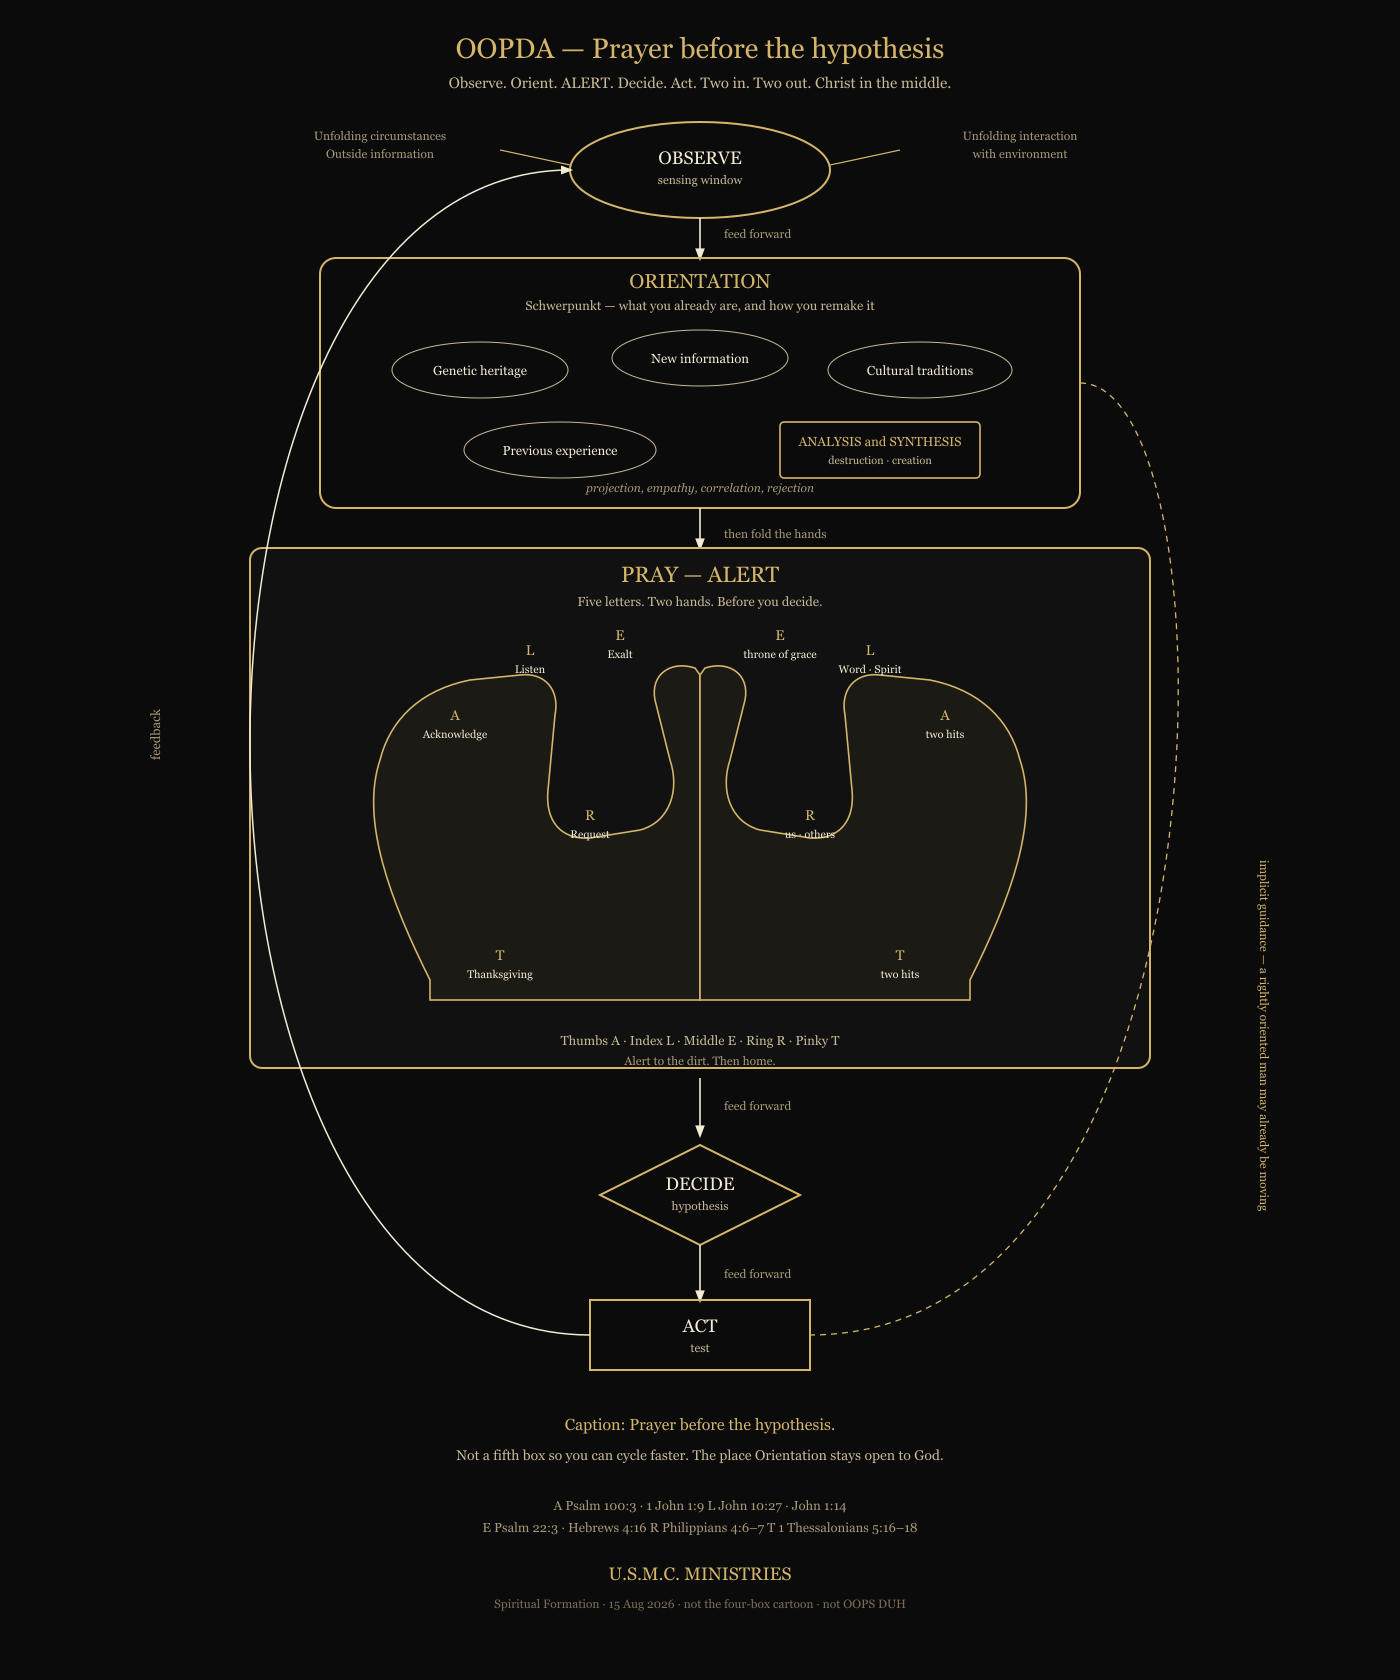
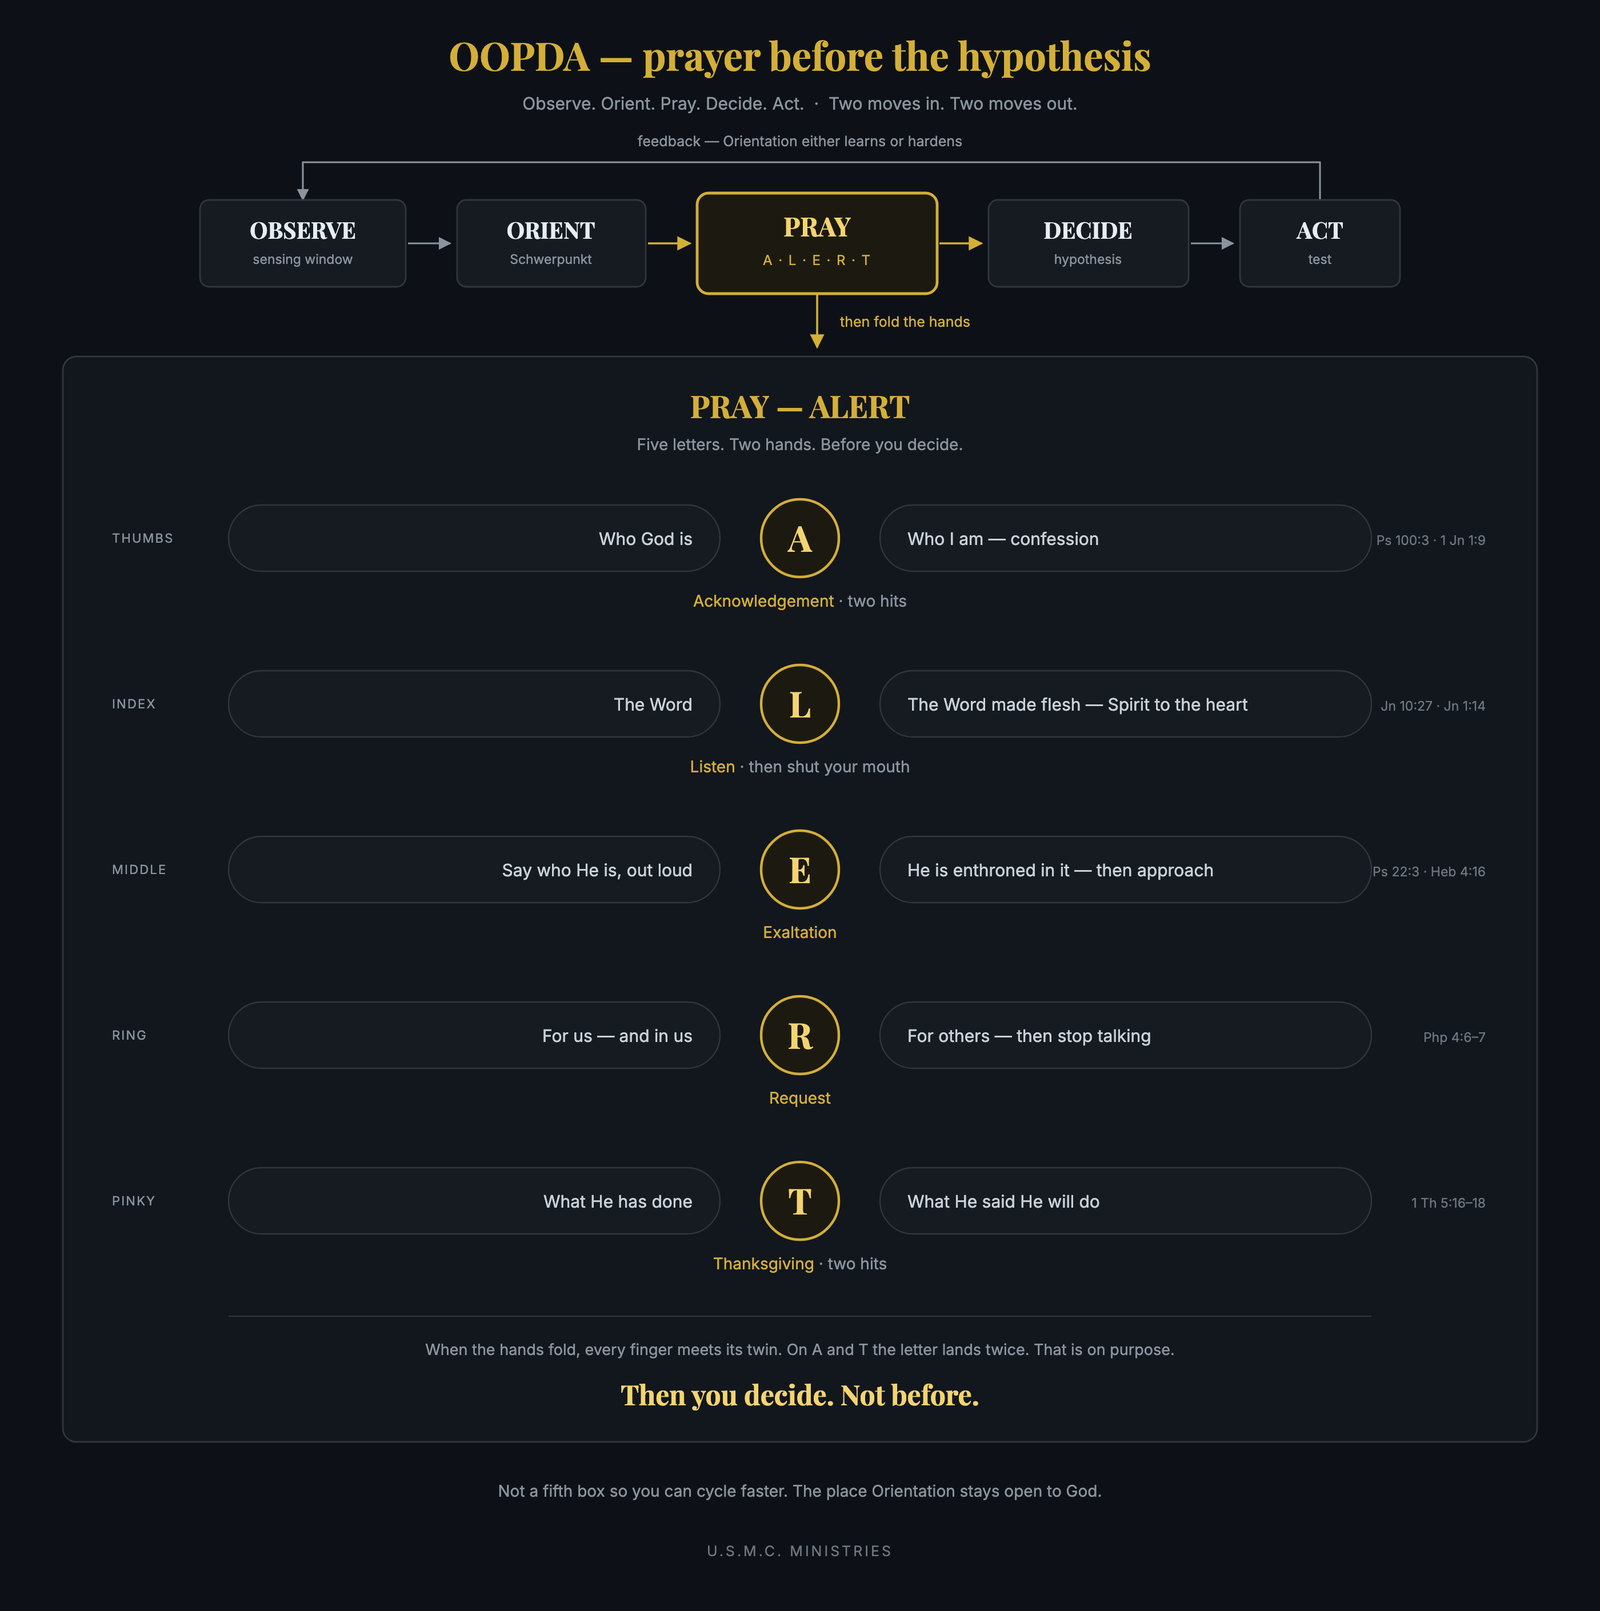
blog(before-you-decide): redraw Plate 2, sharpen Plate 1
Plate 2 (OOPDA/ALERT) redrawn. The prior version drew two anatomical
hands that rendered as blobs, with labels colliding with the outlines
and the loop swamped by two full-height ellipses.

New plate keeps the same teaching and drops the anatomy: a five-stage
spine (Observe/Orient/PRAY/Decide/Act) with PRAY carrying the accent,
over an ALERT panel of five rows -- one per finger pair -- each letter
in the centre with its two movements to left and right. That renders
"five letters, two hands, some letters hit twice" without drawing a
hand. Scripture refs per row.

Plate 1 re-rendered 1280 -> 1700 wide for retina, and its attribution
line now reads "first version 28 June 1995" so it agrees with the body
copy instead of contradicting it (the briefing's last version is Jan
1996; the post cites 1995 throughout, which is correct for the original).

Both plates now use the article's own tokens (#0d1117 / #161b22 /
#d4af37, Playfair Display + Inter) instead of a separate palette.
img width/height updated to match, and Plate 2 alt text describes the
actual content.

diff --git a/docs/blog/before-you-decide.html b/docs/blog/before-you-decide.html
@@ -289,12 +289,12 @@
     <h2>The two plates</h2>
 
     <figure class="plate">
-      <img src="/assets/blog/ooda-original-dark.jpg" width="1280" height="888" alt="Boyd 1995 OODA well — Orientation at the center" loading="eager">
+      <img src="/assets/blog/ooda-original-dark.jpg" width="1700" height="1180" alt="Boyd 1995 OODA well — Orientation at the center" loading="eager">
       <figcaption>Plate 1. The original well — Orientation as the Schwerpunkt. Decision is a hypothesis. Action is a test.</figcaption>
     </figure>
 
     <figure class="plate">
-      <img src="/assets/blog/oopda-alert-prayer.png" width="1400" height="1680" alt="OOPDA well with ALERT prayer folded in before Decide" loading="lazy">
+      <img src="/assets/blog/oopda-alert-prayer.png" width="1600" height="1611" alt="OOPDA spine — Observe, Orient, Pray, Decide, Act — with the ALERT prayer laid out as five letters across two hands" loading="lazy">
       <figcaption>Plate 2. Prayer before the hypothesis. Observe → Orient → ALERT → Decide → Act. Footer: U.S.M.C. Ministries.</figcaption>
     </figure>
 
